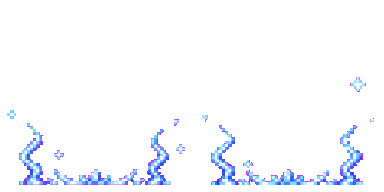
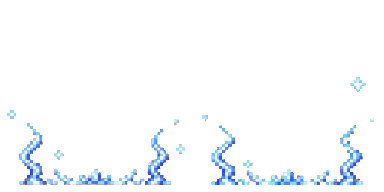
fix: remove chroma fringe from codex aura

diff --git a/src/generated-assets.test.ts b/src/generated-assets.test.ts
@@ -217,6 +217,19 @@ function pixel(image: DecodedPng, x: number, y: number): number[] {
   return Array.from(image.pixels.subarray(offset, offset + 4));
 }
 
+function chromaLikePixels(image: DecodedPng, frameIndex: number): number {
+  const cellLeft = frameIndex * AURA_CELL_SIZE;
+  let count = 0;
+  for (let y = 0; y < AURA_CELL_SIZE; y += 1) {
+    for (let x = 0; x < AURA_CELL_SIZE; x += 1) {
+      const offset = (y * image.width + cellLeft + x) * 4;
+      const [red, green, blue, alpha] = image.pixels.subarray(offset, offset + 4);
+      if (alpha > 16 && red > 180 && blue > 180 && green < 80) count += 1;
+    }
+  }
+  return count;
+}
+
 function assertRepeatableRail(
   image: DecodedPng,
   piece: "rail-h" | "rail-v",
@@ -369,6 +382,20 @@ describe("generated elemental aura assets", () => {
         hashes.add(metrics.hash);
       }
       expect(hashes.size, `${filename} distinct authored frames`).toBe(frameCount);
+    }
+  });
+
+  it("keeps chroma-key magenta out of every visible Codex aura cell", () => {
+    const directory = new URL("../public/effects/", import.meta.url);
+    for (const [filename, frameCount] of Object.entries(AURA_SPECS)) {
+      if (!filename.startsWith("codex-")) continue;
+      const image = decodeRgba(new URL(filename, directory));
+      for (let frameIndex = 0; frameIndex < frameCount; frameIndex += 1) {
+        expect(
+          chromaLikePixels(image, frameIndex),
+          `${filename} frame ${frameIndex} visible chroma-like pixels`,
+        ).toBe(0);
+      }
     }
   });
 });
